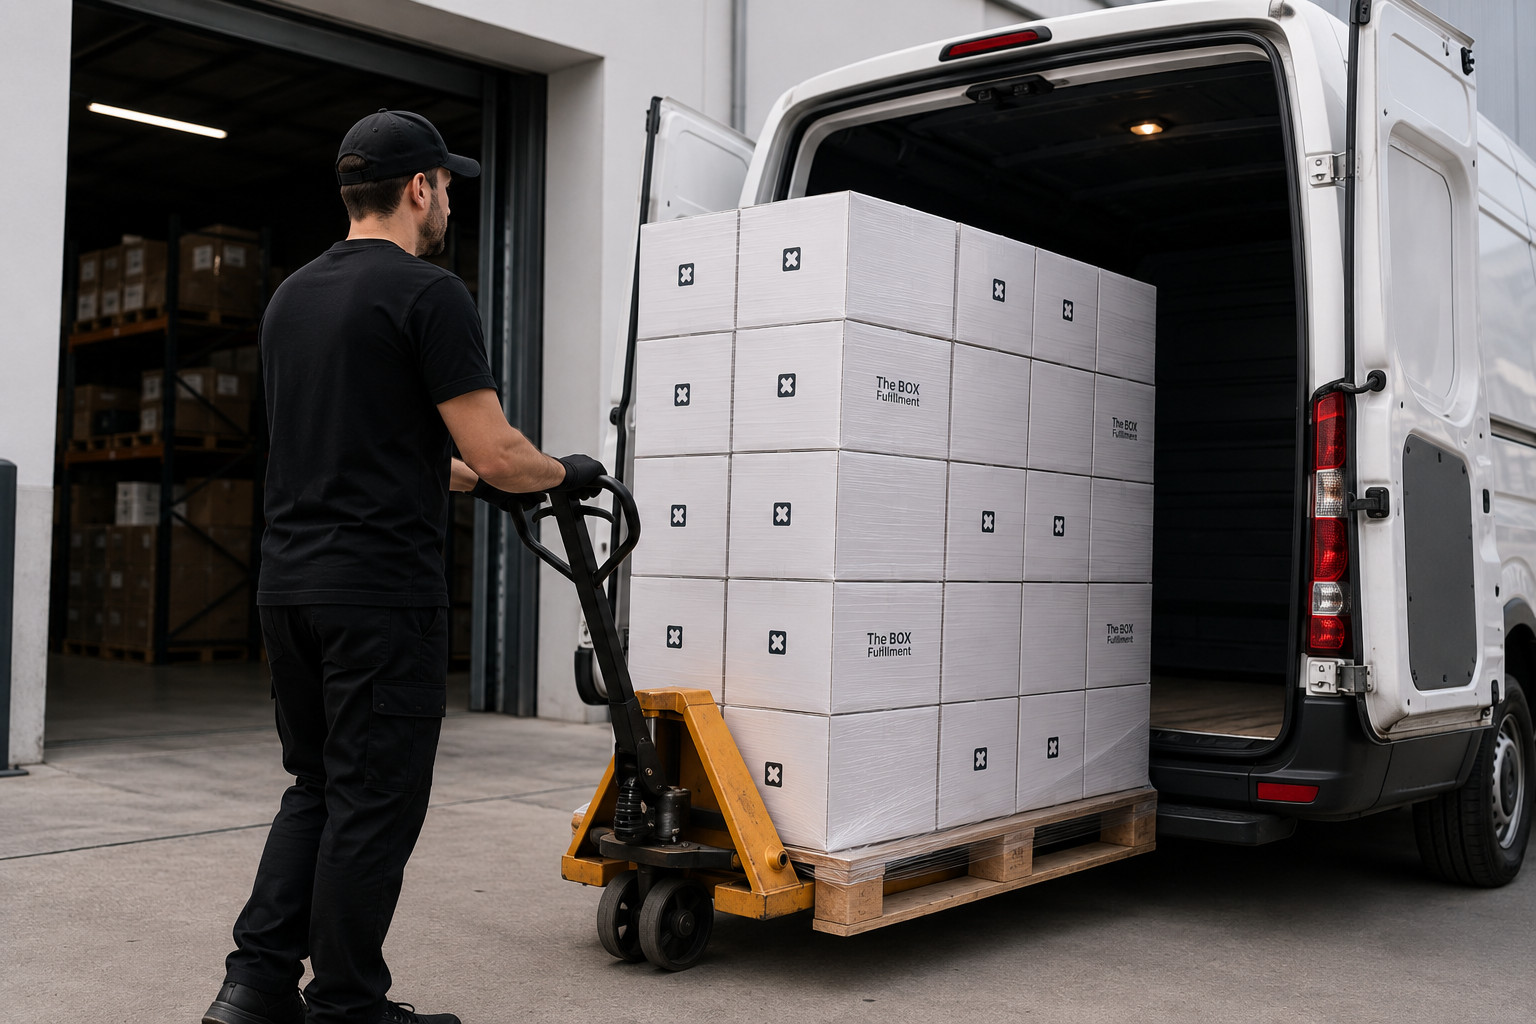
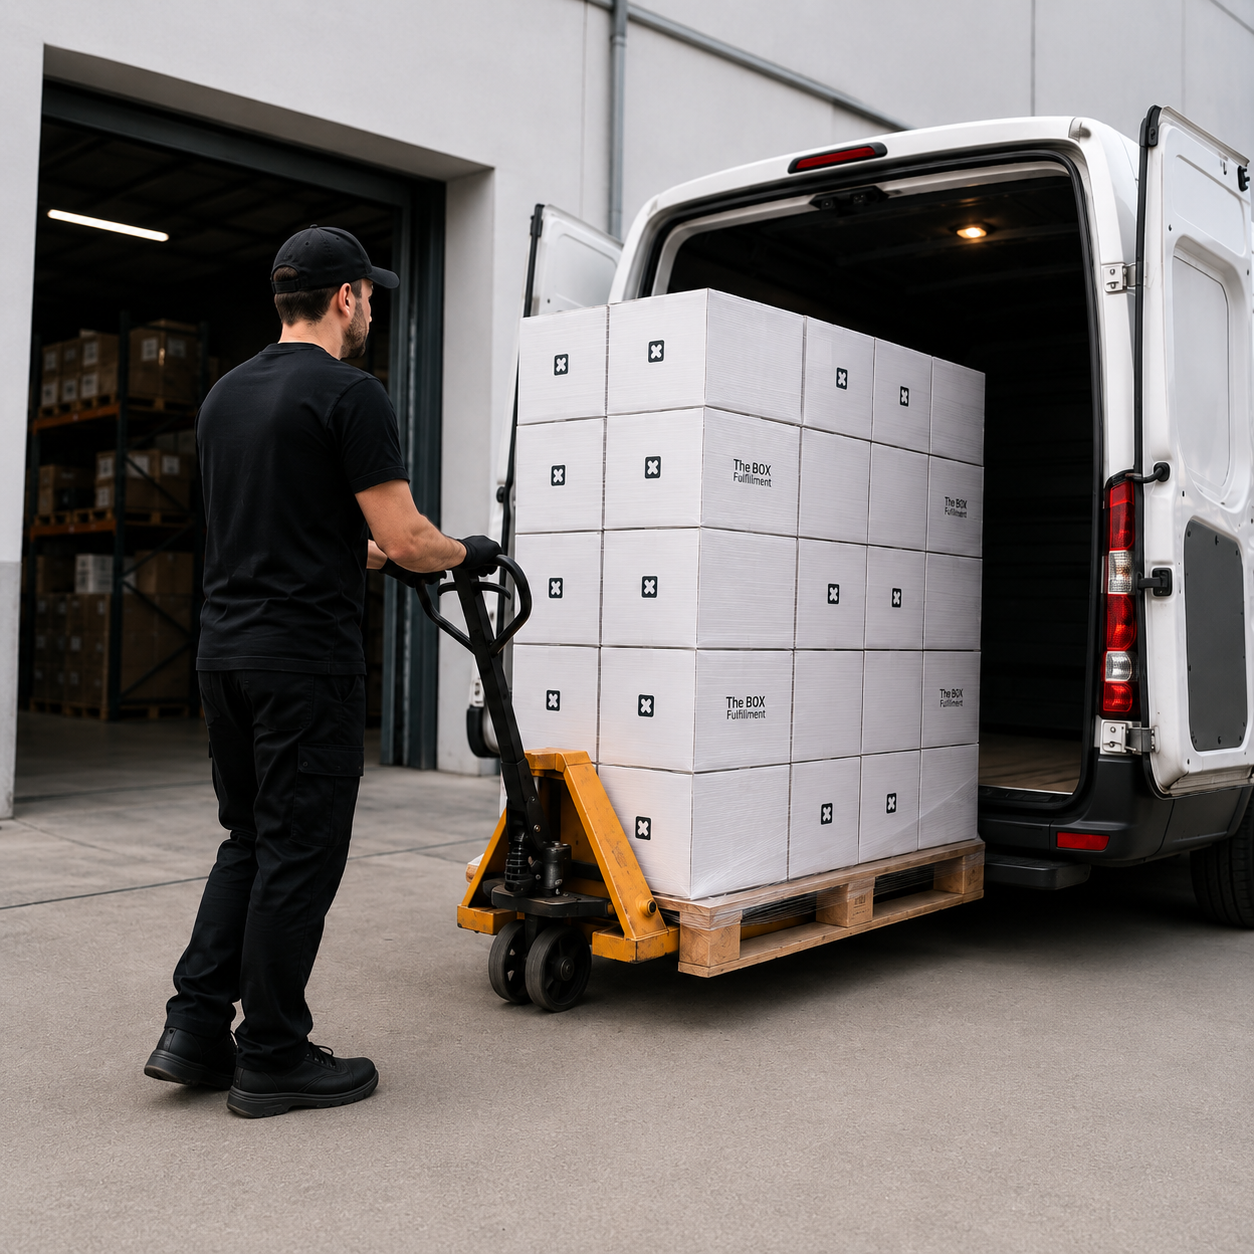
Esto debe ser increible

diff --git a/index.html b/index.html
@@ -336,9 +336,9 @@
 										<p class="services__item-text">control de lotes, caducidades y stock en tiempo real.</p>
 									</div>
 								</div>
-								<a href="./pages/services.html" class="services__item-btn btn _accent" data-service="1">
+								<button type="button" class="services__item-btn btn _accent" data-fancybox data-src="#home-service-1">
 									<span class="btn__inner"></span>
-								</a>
+								</button>
 							</div>
 
 							<div class="services__item services__item-2 _accent">
@@ -349,9 +349,9 @@
 										<p class="services__item-text">personalización máxima en cada caja con tu branding.</p>
 									</div>
 								</div>
-								<a href="./pages/services.html" class="services__item-btn btn" data-service="2">
+								<button type="button" class="services__item-btn btn" data-fancybox data-src="#home-service-2">
 									<span class="btn__inner"></span>
-								</a>
+								</button>
 							</div>
 
 							<div class="services__item services__item-3">
@@ -362,9 +362,9 @@
 										<p class="services__item-text">24–48h en Península, incluidos fines de semana.</p>
 									</div>
 								</div>
-								<a href="./pages/services.html" class="services__item-btn btn _accent" data-service="3">
+								<button type="button" class="services__item-btn btn _accent" data-fancybox data-src="#home-service-3">
 									<span class="btn__inner"></span>
-								</a>
+								</button>
 							</div>
 
 							<div class="services__item services__item-4 _accent">
@@ -375,9 +375,9 @@
 										<p class="services__item-text">panel de control con visibilidad total de tu operación.</p>
 									</div>
 								</div>
-								<a href="./pages/services.html" class="services__item-btn btn" data-service="4">
+								<button type="button" class="services__item-btn btn" data-fancybox data-src="#home-service-4">
 									<span class="btn__inner"></span>
-								</a>
+								</button>
 							</div>
 
 							<div class="services__item services__item-5">
@@ -388,9 +388,9 @@
 										<p class="services__item-text">predicción de rotura de stock antes de que ocurra.</p>
 									</div>
 								</div>
-								<a href="./pages/services.html" class="services__item-btn btn _accent" data-service="5">
+								<button type="button" class="services__item-btn btn _accent" data-fancybox data-src="#home-service-5">
 									<span class="btn__inner"></span>
-								</a>
+								</button>
 							</div>
 
 							<div class="services__item services__item-6 _accent">
@@ -401,9 +401,9 @@
 										<p class="services__item-text">gestión completa de retornos sin complicaciones.</p>
 									</div>
 								</div>
-								<a href="./pages/services.html" class="services__item-btn btn" data-service="6">
+								<button type="button" class="services__item-btn btn" data-fancybox data-src="#home-service-6">
 									<span class="btn__inner"></span>
-								</a>
+								</button>
 							</div>
 						</div>
 					</div>
@@ -676,7 +676,122 @@
 		</div>
 	</div>
 
-<script src="./assets/js/main.js"></script>
+<!-- Modales de servicios (home) — abiertos por Fancybox desde los botones "+" -->
+	<div class="modal-services hidden" id="home-service-1">
+		<div class="modal-services__inner">
+			<h3 class="modal-services__title">Almacenamiento</h3>
+			<div class="modal-services__container">
+				<h4 class="modal-services__heading">Control de lotes y caducidades</h4>
+				<p class="modal-services__text">Cada SKU entra con número de lote y fecha de caducidad registrada. El sistema aplica FIFO automático para garantizar que siempre sale el producto más antiguo primero.</p>
+			</div>
+			<div class="modal-services__container">
+				<h4 class="modal-services__heading">Alertas proactivas</h4>
+				<ul class="modal-services__list">
+					<li class="modal-services__list-item">Alerta de caducidad próxima (configurable, p. ej. 90 días).</li>
+					<li class="modal-services__list-item">Alerta de stock mínimo por SKU.</li>
+					<li class="modal-services__list-item">Temperatura controlada y acceso restringido 24h.</li>
+				</ul>
+			</div>
+			<a href="./pages/services.html#service-1" class="modal-services__cta">Ver el servicio completo →</a>
+		</div>
+	</div>
+
+	<div class="modal-services hidden" id="home-service-2">
+		<div class="modal-services__inner">
+			<h3 class="modal-services__title">Pick &amp; Pack</h3>
+			<div class="modal-services__container">
+				<h4 class="modal-services__heading">Tu branding en cada caja</h4>
+				<p class="modal-services__text">Cada pedido sale con tu imagen de marca: caja personalizada, inserts, packaging premium y cualquier detalle que definas. El unboxing es parte de tu producto.</p>
+			</div>
+			<div class="modal-services__container">
+				<h4 class="modal-services__heading">Proceso de calidad</h4>
+				<ul class="modal-services__list">
+					<li class="modal-services__list-item">Picking por SKU con doble verificación.</li>
+					<li class="modal-services__list-item">Fotografía del envío antes de salida.</li>
+					<li class="modal-services__list-item">Capacidad para kits multiproduto y suscripciones.</li>
+				</ul>
+			</div>
+			<a href="./pages/services.html#service-2" class="modal-services__cta">Ver el servicio completo →</a>
+		</div>
+	</div>
+
+	<div class="modal-services hidden" id="home-service-3">
+		<div class="modal-services__inner">
+			<h3 class="modal-services__title">Envíos</h3>
+			<div class="modal-services__container">
+				<h4 class="modal-services__heading">24–48h en Península, mismo día en 50 km</h4>
+				<p class="modal-services__text">Pedidos confirmados antes de las 14h con destino a menos de 50 km de Pozuelo de Alarcón salen el mismo día — incluidos sábados y domingos.</p>
+			</div>
+			<div class="modal-services__container">
+				<h4 class="modal-services__heading">Transportistas integrados</h4>
+				<ul class="modal-services__list">
+					<li class="modal-services__list-item">DHL Express, UPS, Correos Express, MRW.</li>
+					<li class="modal-services__list-item">Cobertura nacional e internacional.</li>
+					<li class="modal-services__list-item">Tracking automático al cliente desde el panel ERP.</li>
+				</ul>
+			</div>
+			<a href="./pages/services.html#service-3" class="modal-services__cta">Ver el servicio completo →</a>
+		</div>
+	</div>
+
+	<div class="modal-services hidden" id="home-service-4">
+		<div class="modal-services__inner">
+			<h3 class="modal-services__title">ERP de gestión</h3>
+			<div class="modal-services__container">
+				<h4 class="modal-services__heading">Visibilidad total en un solo panel</h4>
+				<p class="modal-services__text">Accede en tiempo real a pedidos, stock, envíos activos y devoluciones desde tu panel web, sin depender de emails ni llamadas.</p>
+			</div>
+			<div class="modal-services__container">
+				<h4 class="modal-services__heading">Integración con tu plataforma</h4>
+				<ul class="modal-services__list">
+					<li class="modal-services__list-item">Shopify, WooCommerce y PrestaShop nativos.</li>
+					<li class="modal-services__list-item">Conexión via API con cualquier ERP o marketplace.</li>
+					<li class="modal-services__list-item">Sincronización de pedidos en tiempo real.</li>
+				</ul>
+			</div>
+			<a href="./pages/services.html#service-4" class="modal-services__cta">Ver el servicio completo →</a>
+		</div>
+	</div>
+
+	<div class="modal-services hidden" id="home-service-5">
+		<div class="modal-services__inner">
+			<h3 class="modal-services__title">IA de Stock predictiva</h3>
+			<div class="modal-services__container">
+				<h4 class="modal-services__heading">Anticípate a la rotura de stock</h4>
+				<p class="modal-services__text">Nuestro algoritmo analiza tu historial de ventas, estacionalidad y tendencias para predecir cuándo necesitarás reponer cada SKU — antes de que se agote.</p>
+			</div>
+			<div class="modal-services__container">
+				<h4 class="modal-services__heading">Alertas automáticas</h4>
+				<ul class="modal-services__list">
+					<li class="modal-services__list-item">Notificación días antes de llegar al mínimo.</li>
+					<li class="modal-services__list-item">Recomendación de cantidad óptima a reponer.</li>
+					<li class="modal-services__list-item">Sin configuración manual: aprende de tu operación.</li>
+				</ul>
+			</div>
+			<a href="./pages/services.html#service-5" class="modal-services__cta">Ver el servicio completo →</a>
+		</div>
+	</div>
+
+	<div class="modal-services hidden" id="home-service-6">
+		<div class="modal-services__inner">
+			<h3 class="modal-services__title">Devoluciones</h3>
+			<div class="modal-services__container">
+				<h4 class="modal-services__heading">Gestión completa de retornos</h4>
+				<p class="modal-services__text">Recibimos el producto devuelto, lo inspeccionamos, lo re-embalamos si está en condiciones y lo reintegramos al stock — todo registrado y trazable.</p>
+			</div>
+			<div class="modal-services__container">
+				<h4 class="modal-services__heading">Trazabilidad total</h4>
+				<ul class="modal-services__list">
+					<li class="modal-services__list-item">Panel de devoluciones en tiempo real.</li>
+					<li class="modal-services__list-item">Estado de cada unidad: apto, dañado, destruido.</li>
+					<li class="modal-services__list-item">Informes de tasa de devolución por SKU.</li>
+				</ul>
+			</div>
+			<a href="./pages/services.html#service-6" class="modal-services__cta">Ver el servicio completo →</a>
+		</div>
+	</div>
+
+	<script src="./assets/js/main.js"></script>
 	<script src="./assets/js/custom.js"></script>
 
 </body>

diff --git a/assets/css/custom.css b/assets/css/custom.css
@@ -366,22 +366,44 @@
 	background-image: url(../img/services/imgHeroServicios.webp);
 }
 .hero-services__section-1 .hero-services__image {
-	background-image: url(../img/services/imgService1.webp);
+	background-image: url(../img/img2.png);
 }
 .hero-services__section-2 .hero-services__image {
-	background-image: url(../img/services/imgService2.webp);
+	background-image: url(../img/img5.png);
+	background-position: top center;
 }
 .hero-services__section-3 .hero-services__image {
-	background-image: url(../img/services/imgService3.webp);
+	background-image: url(../img/img3.png);
 }
 .hero-services__section-4 .hero-services__image {
-	background-image: url(../img/services/imgService4.webp);
+	background-image: url(../img/img4.png);
 }
 .hero-services__section-5 .hero-services__image {
-	background-image: url(../img/services/imgService5.webp);
+	background-image: url(../img/img10.png);
 }
 .hero-services__section-6 .hero-services__image {
-	background-image: url(../img/services/imgService6.webp);
+	background-image: url(../img/img1.png);
+}
+
+/* ── Botón CTA en modales de servicio (fondo oscuro #1f1f61) ── */
+.modal-services__cta {
+	display: inline-block;
+	margin-top: 50rem;
+	padding: 16rem 36rem;
+	background: #fff;
+	color: #1f1f61 !important;
+	font-size: 13rem;
+	font-weight: 700;
+	text-transform: uppercase;
+	letter-spacing: 0.08em;
+	border-radius: 6rem;
+	border: 2rem solid #fff;
+	text-decoration: none;
+	transition: background 0.25s, color 0.25s;
+}
+.modal-services__cta:hover {
+	background: transparent;
+	color: #fff !important;
 }
 
 /* Hero About — evitar corte en "FULFILLMENT" */
@@ -392,6 +414,7 @@
 /* ── Services homepage: crossfade imagen panel izquierdo ── */
 .services__container-inner {
 	transition: opacity 0.25s ease;
+	background-position: center;
 }
 .services__container-inner._img-changing {
 	opacity: 0.6;

diff --git a/assets/js/custom.js b/assets/js/custom.js
@@ -107,12 +107,21 @@
 		if (!cards.length) return;
 
 		var images = [
-			'./assets/img/services/imgService1.webp',
-			'./assets/img/services/imgService2.webp',
-			'./assets/img/services/imgService3.webp',
-			'./assets/img/services/imgService4.webp',
-			'./assets/img/services/imgService5.webp',
-			'./assets/img/services/imgService6.webp'
+			'./assets/img/img2.png',
+			'./assets/img/img5.png',
+			'./assets/img/img3.png',
+			'./assets/img/img4.png',
+			'./assets/img/img10.png',
+			'./assets/img/img1.png'
+		];
+		/* Posición del recorte por imagen — ajustar aquí si una foto queda mal encuadrada */
+		var positions = [
+			'center',
+			'top center',
+			'center',
+			'center',
+			'center',
+			'center'
 		];
 		images.forEach(function (src) { new Image().src = src; });
 
@@ -141,6 +150,7 @@
 			current = idx;
 			panel.classList.add('_img-changing');
 			panel.style.backgroundImage = 'url("' + images[idx] + '")';
+			panel.style.backgroundPosition = positions[idx];
 			setTimeout(function () { panel.classList.remove('_img-changing'); }, 250);
 		}
 